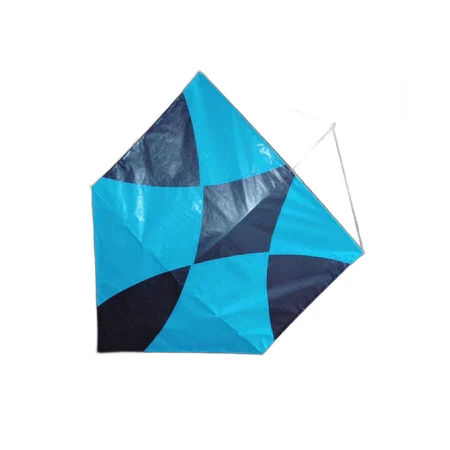
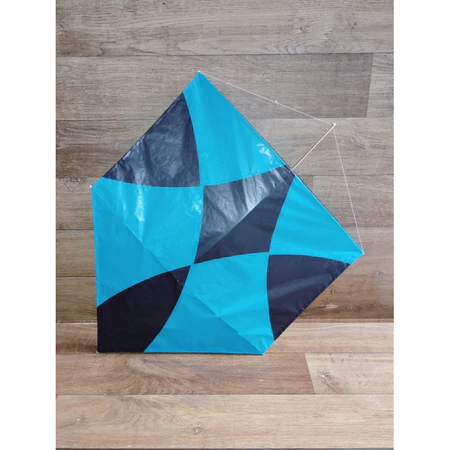
Tira pipa do recorte de fundo de vez
As 44 fotos dos cinco produtos de pipa voltam para a original: Baruel,
caçadeira, latão laminado, latão de seda e corte e recorte. Nenhuma
foto recortada fica nesses produtos.

Pipa tem haste, vareta e cabresto finos demais. O recorte trata como
ruído e sempre come alguma coisa, e produto parecendo quebrado é
alterar o produto, não remover fundo. O ganho de padronização não
compensa.

Regra fechada no NOTAS.md, com o motivo e o registro de que a
conferência por miniatura não pega esse tipo de falha. Recorte segue
valendo em carretilha, linha, cola, engomador e base de corte, que
têm silhueta cheia.

diff --git a/NOTAS.md b/NOTAS.md
@@ -2,32 +2,45 @@
 
 ---
 
-## Recorte de fundo: SEMPRE conferir o topo da pipa
+## PIPA NÃO VAI PRA RECORTE DE FUNDO
 
-**Regra, aprendida na prática em 14/08/2026.**
+**Regra fechada em 14/08/2026. Não é "conferir com cuidado", é não
+rodar.**
 
-Produto com **haste, vareta, cabresto ou estirante no topo** tende a
-perder esse detalhe no recorte automático de fundo. A vareta tem
-poucos pixels e o modelo trata como ruído. O resultado é uma pipa que
-parece **quebrada** — e isso é alterar o produto, não remover fundo.
+Pipa tem **haste, vareta e cabresto finos demais**. O recorte
+automático trata isso como ruído e **sempre come alguma coisa**. O
+resultado é produto parecendo quebrado, e isso é **alterar o
+produto, não remover fundo** — o que a regra do projeto proíbe.
 
-**Se rodar recorte em foto nova de pipa, conferir especificamente o
-topo antes de aprovar.** Olhar a silhueta inteira não basta: o corpo
-sai perfeito e a haste some, então a foto passa numa olhada rápida.
+**O ganho de padronização não compensa.** Fundo bonito com pipa
+quebrada é pior que foto de chão de madeira com pipa inteira.
 
-Não dá pra detectar isso por número: perder uma vareta de 2 px não
-move área nem alfa parcial. **Só olho pega.**
+Vale pra qualquer produto de pipa: Baruel, caçadeira, latão laminado,
+latão de seda, corte e recorte, mucha, vazada, flechinha, peixinho.
 
-Já aconteceu uma vez: 27 fotos foram publicadas recortadas e tiveram
-que voltar para a original —
+### Como isso foi descoberto, em duas rodadas
 
-| produto | fotos revertidas |
+Chegou ao ar recortado e teve que voltar:
+
+| rodada | fotos revertidas |
 |---|---|
-| Pipa de latão laminado 60 cm | 10 (todas) |
-| Pipa de latão de seda 60 cm | 14 (todas) |
-| Pipa corte e recorte 80 cm | 1 (a última da tira) |
-| Pipa Baruel 55 cm | 1 (a principal) |
-| Pipa caçadeira 62 cm | 1 (a principal) |
+| 1ª — haste cortada, achada pelo dono no site | 27 |
+| 2ª — decisão de tirar pipa do recorte de vez | 15 |
+| **total** | **42** |
+
+**Por que a conferência não pegou:** aprovei olhando folha de contato
+com miniatura de ~110 px. Nesse tamanho o corpo da pipa domina e a
+vareta de 2 px não aparece. Quem pegou foi o dono, olhando o site em
+tamanho real.
+
+**Nem número pega:** perder uma vareta de 2 px não move área nem alfa
+parcial na triagem. Só olho, e só em tamanho grande.
+
+### Onde o recorte continua valendo
+
+Carretilha, linha em cone, cola, engomador, base de corte — produto
+de silhueta cheia, sem apêndice fino. Esses passaram e continuam
+recortados.
 
 As originais ficam intactas em `fotos-organizadas/produtos/`, que o
 recorte nunca toca. Reverter é copiar de lá para `fotos/produtos/`.
